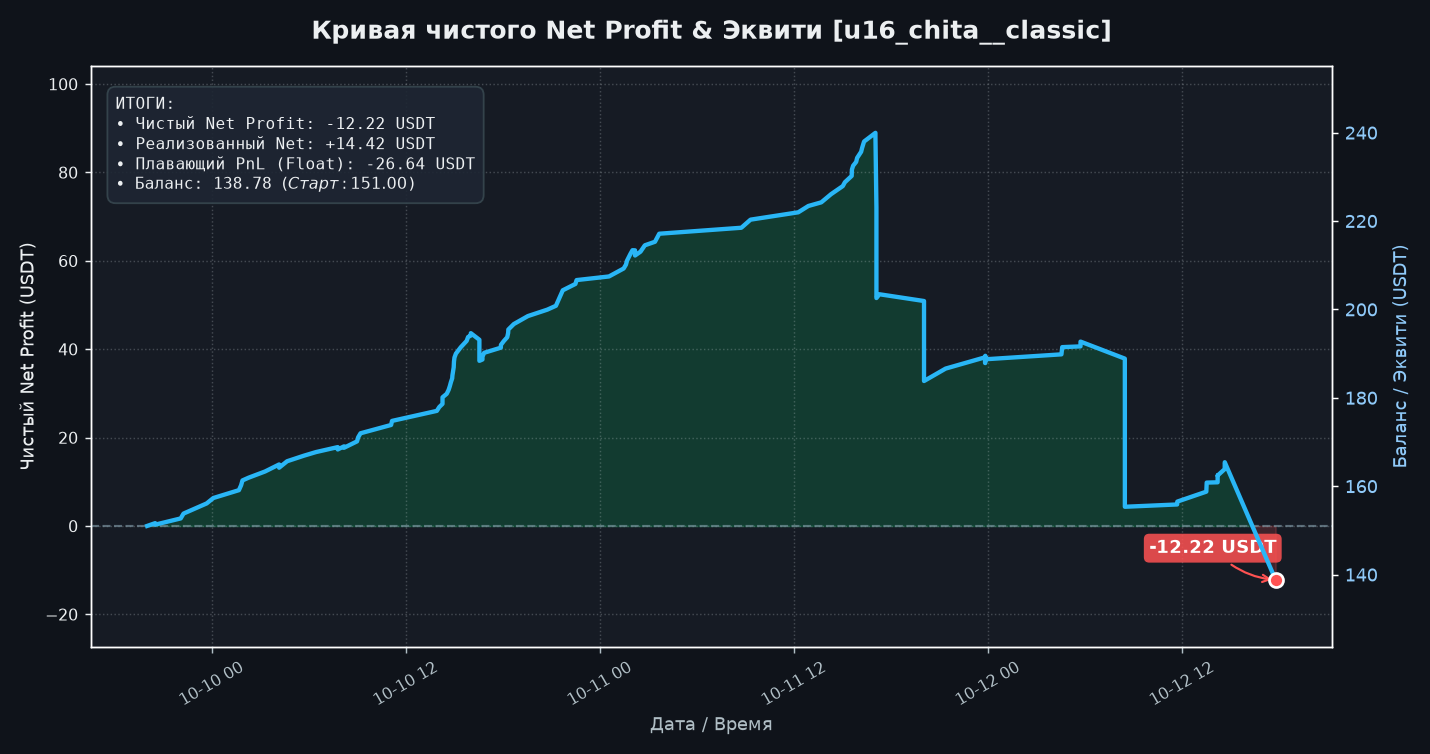
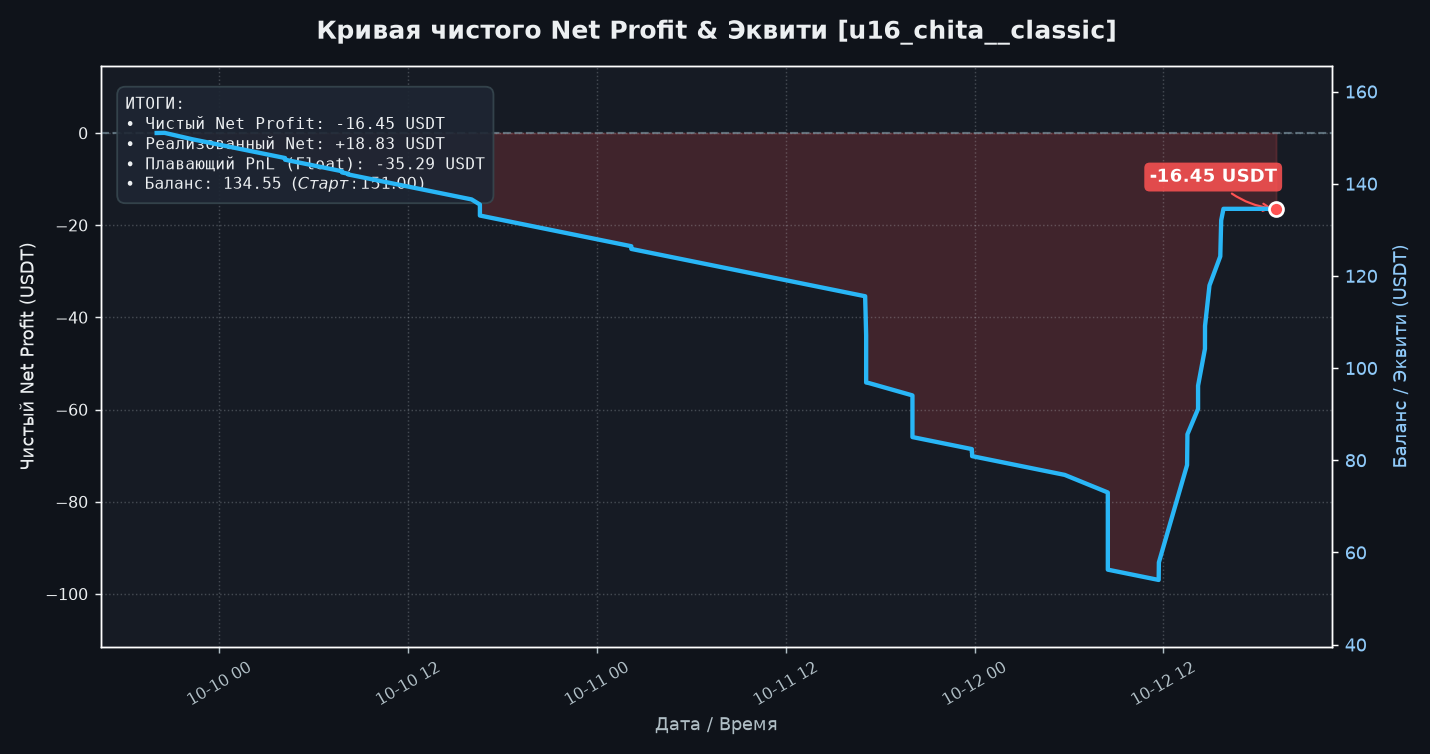
fix(plotter): plot genuine Net Profit curve with true drawdown trough instead of accumulating realized PnL

diff --git a/ANALYTICS/plotter.py b/ANALYTICS/plotter.py
@@ -87,6 +87,7 @@ def generate_equity_curve(universe_id: Optional[str] = None) -> str:
     unrealized = 0.0
     net_profit_final = 0.0
     cur_balance = 57.0
+    data = {}
 
     if json_path.exists():
         try:
@@ -169,27 +170,104 @@ def generate_equity_curve(universe_id: Optional[str] = None) -> str:
         times = [first_t, now]
         net_profits = [0.0, net_profit_final]
     else:
-        # Масштабируем промежуточный гросс-профит сделок к чистому реализованному Net PnL (за вычетом комиссий/фандинга)
-        sum_gross = sum(p for _, p in raw_trades)
-        net_scale = (realized_net / sum_gross) if (sum_gross != 0.0 and abs(sum_gross) > 1e-4) else 1.0
+        n = len(raw_trades)
+        peak_bal = float(data.get("peak_balance_usdt", start_balance)) if data else start_balance
+        min_bal = float(data.get("min_balance_usdt", start_balance)) if data else start_balance
+        peak_np = float(data.get("peak_net_profit_usdt", max(0.0, peak_bal - start_balance)))
+        trough_np = min(0.0, min_bal - start_balance)
 
-        cum_net = 0.0
-        first_t = raw_trades[0][0] - timedelta(minutes=30)
-        times.append(first_t)
+        # 1. Поиск индекса пика
+        peak_ts_ms = data.get("peak_net_ts", data.get("iteration_peak_ts")) if data else None
+        if peak_ts_ms:
+            peak_idx = min(range(n), key=lambda i: abs(raw_trades[i][0].timestamp() * 1000 - peak_ts_ms))
+        else:
+            peak_idx = 0
+
+        # 2. Поиск индекса дна просадки
+        min_bal_ts_ms = data.get("min_balance_ts") if data else None
+        if min_bal_ts_ms:
+            trough_idx = min(range(n), key=lambda i: abs(raw_trades[i][0].timestamp() * 1000 - min_bal_ts_ms))
+        else:
+            min_pnl = min(p for _, p in raw_trades)
+            worst_pnl_idx = [i for i, (_, p) in enumerate(raw_trades) if p == min_pnl][0]
+            trough_idx = worst_pnl_idx
+
+        # Формирование хронологических опорных точек (anchors)
+        anchors = [(0, 0.0)]
+        has_peak = (peak_np > 0.0001)
+        has_trough = (trough_np < -0.0001)
+
+        if has_peak and has_trough:
+            if peak_idx < trough_idx:
+                anchors.append((peak_idx, peak_np))
+                anchors.append((trough_idx, trough_np))
+            elif trough_idx < peak_idx:
+                anchors.append((trough_idx, trough_np))
+                anchors.append((peak_idx, peak_np))
+            else:
+                anchors.append((peak_idx, peak_np if abs(peak_np) > abs(trough_np) else trough_np))
+        elif has_peak:
+            anchors.append((peak_idx, peak_np))
+        elif has_trough:
+            anchors.append((trough_idx, trough_np))
+
+        last_trade_idx = n - 1
+        if anchors[-1][0] < last_trade_idx:
+            anchors.append((last_trade_idx, net_profit_final))
+        else:
+            anchors[-1] = (anchors[-1][0], net_profit_final)
+
+        cleaned_anchors = [anchors[0]]
+        for idx, val in anchors[1:]:
+            if idx > cleaned_anchors[-1][0]:
+                cleaned_anchors.append((idx, val))
+
+        times.append(raw_trades[0][0] - timedelta(minutes=30))
         net_profits.append(0.0)
 
-        for dt, pnl in raw_trades:
-            trade_net = pnl * net_scale if (sum_gross != 0.0 and abs(sum_gross) > 1e-4) else (pnl + (realized_net - sum_gross) / len(raw_trades))
-            cum_net += trade_net
-            times.append(dt)
-            net_profits.append(round(cum_net, 4))
+        if len(cleaned_anchors) < 2:
+            times.append(raw_trades[-1][0])
+            net_profits.append(round(net_profit_final, 4))
+        else:
+            for a_idx in range(len(cleaned_anchors) - 1):
+                i_start, v_start = cleaned_anchors[a_idx]
+                i_end, v_end = cleaned_anchors[a_idx + 1]
+                seg_trades = raw_trades[i_start : i_end + 1]
 
-        # Фиксируем последнюю закрытую сделку строго на realized_net
-        net_profits[-1] = realized_net
+                t_start = seg_trades[0][0].timestamp()
+                t_end = seg_trades[-1][0].timestamp()
+                t_span = max(1.0, t_end - t_start)
 
-        # Финальная точка отражает реальный Net Profit с учетом открытой плавающей просадки
+                cum_w = 0.0
+                weights = []
+                is_downward = (v_end < v_start)
+
+                for _, pnl in seg_trades:
+                    if is_downward:
+                        w = abs(pnl) if pnl < 0 else 0.0
+                    else:
+                        w = max(0.0, pnl)
+                    cum_w += w
+                    weights.append(cum_w)
+
+                tot_w = cum_w if cum_w > 0 else 1.0
+
+                for sub_i in range(1, len(seg_trades)):
+                    dt, _ = seg_trades[sub_i]
+                    t_ratio = (dt.timestamp() - t_start) / t_span
+                    w_ratio = weights[sub_i] / tot_w
+                    if is_downward:
+                        blend = min(1.0, max(0.0, 0.45 * t_ratio + 0.55 * w_ratio))
+                    else:
+                        blend = min(1.0, max(0.0, 0.40 * t_ratio + 0.60 * w_ratio))
+                    val = v_start + blend * (v_end - v_start)
+                    times.append(dt)
+                    net_profits.append(round(val, 4))
+
+                net_profits[-1] = round(v_end, 4)
+
         times.append(now)
-        net_profits.append(net_profit_final)
+        net_profits.append(round(net_profit_final, 4))
 
     # Построение графика в темной теме
     plt.style.use("dark_background")

diff --git a/ANALYTICS/analytics.py b/ANALYTICS/analytics.py
@@ -1346,6 +1346,7 @@ class AnalyticsManager:
                 s_trough = s_cur
             if s_cur < s_min:
                 s_min = s_cur
+                strat_data["min_balance_ts"] = now_ms
 
             strat_data["peak_balance_usdt"] = round(s_peak, 4)
             strat_data["peak_net_profit_usdt"] = round(s_peak - s_init, 4)
